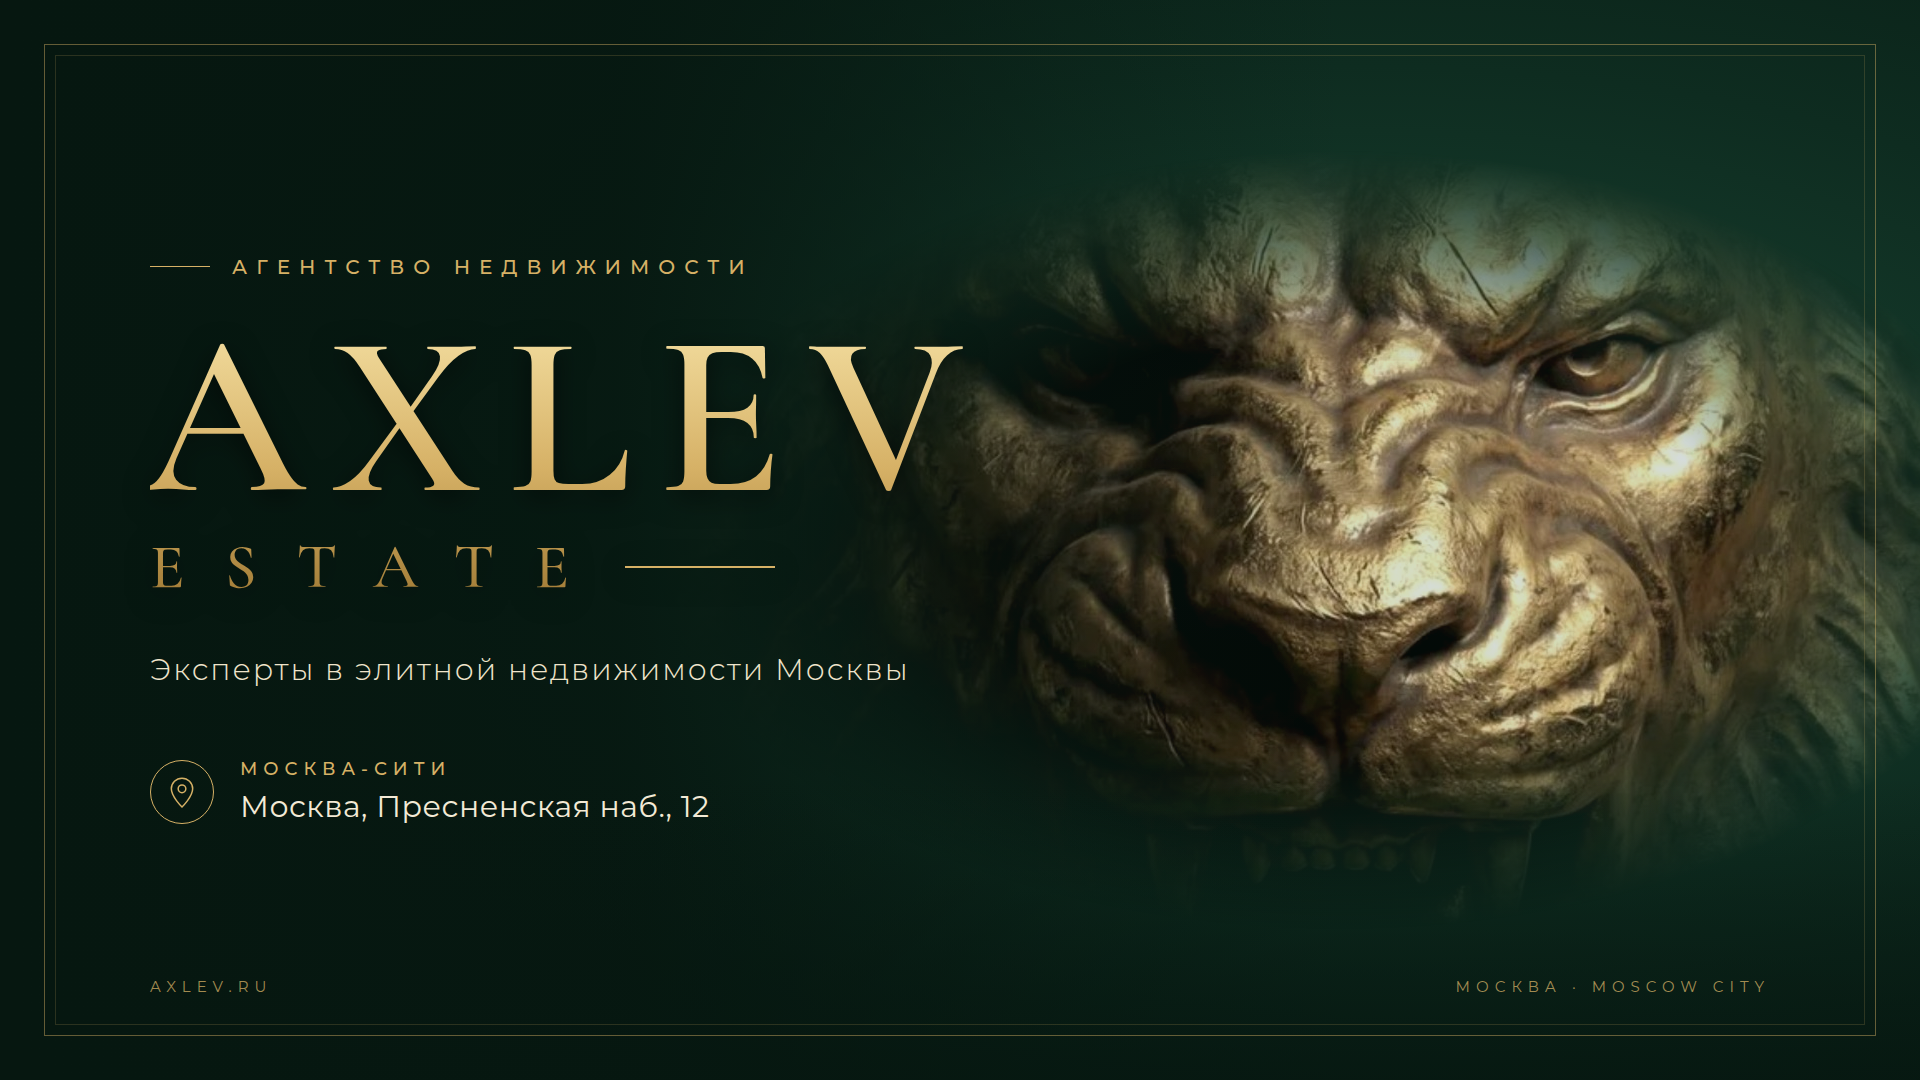
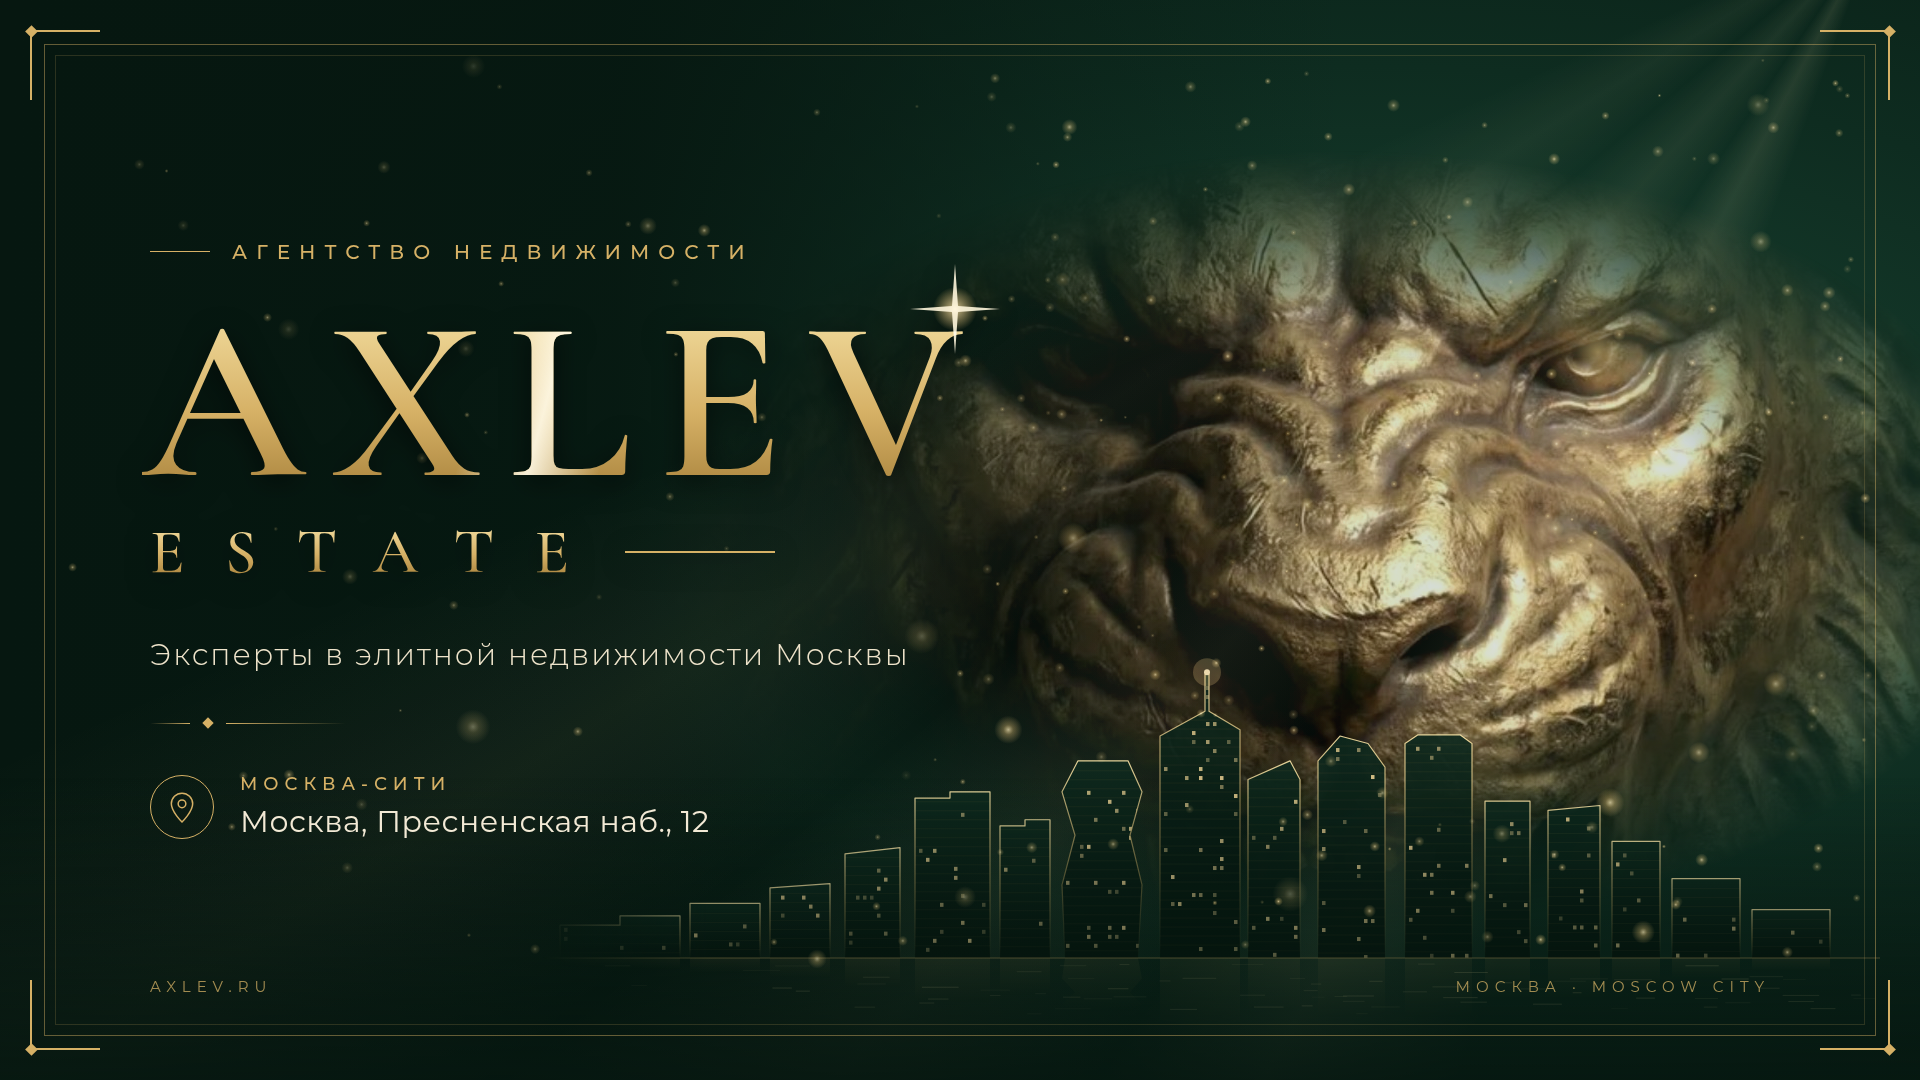
Обложка AXLEV ESTATE: силуэт Москва-Сити, золотая пыль, блик и орнаменты
Золотой контур башен Москва-Сити с огнями в окнах и отражением в реке,
луч света и золотые искры, блик и звезда на логотипе, свечение глаза льва,
угловые орнаменты на рамке и разделитель с ромбом.

Claude-Session: https://claude.ai/code/session_01NcFNBRK8TRY5mcPYiPwMCS

diff --git a/axlev/cover.html b/axlev/cover.html
@@ -40,10 +40,15 @@
     color: var(--gold); display: flex; align-items: center; gap: 22px; margin-bottom: 34px; }
   .eyebrow::before { content: ''; width: 60px; height: 1px; background: var(--gold); }
 
-  .logo { font-family: 'Cormorant Garamond', serif; font-weight: 600; line-height: .9;
-    background: linear-gradient(180deg, var(--gold-light) 0%, var(--gold) 55%, var(--gold-dark) 100%);
-    -webkit-background-clip: text; background-clip: text; color: transparent;
+  .logo { position: relative; font-family: 'Cormorant Garamond', serif; font-weight: 600; line-height: .9;
     filter: drop-shadow(0 6px 14px rgba(0,0,0,.55)); }
+  .logo .main, .logo .sub {
+    background: linear-gradient(180deg, var(--gold-light) 0%, var(--gold) 55%, var(--gold-dark) 100%);
+    -webkit-background-clip: text; background-clip: text; color: transparent; }
+  .logo .main {
+    background: linear-gradient(105deg, rgba(255,250,232,0) 40%, rgba(255,250,232,.9) 48%, rgba(255,250,232,0) 56%),
+                linear-gradient(180deg, var(--gold-light) 0%, var(--gold) 55%, var(--gold-dark) 100%);
+    -webkit-background-clip: text; background-clip: text; width: max-content; }
   .logo .main { display: block; font-size: 230px; letter-spacing: 26px; margin-left: -8px; }
   .logo .sub { display: flex; align-items: center; gap: 28px; font-size: 64px; font-weight: 500;
     letter-spacing: 40px; margin-top: 18px; }
@@ -60,22 +65,59 @@
   .footer { position: absolute; left: 150px; right: 150px; bottom: 84px;
     display: flex; justify-content: space-between; font-size: 15px; letter-spacing: 6px;
     text-transform: uppercase; color: rgba(214,177,102,.75); }
+
+  /* золотой луч света сверху справа и свечение глаза льва */
+  .rays { position: absolute; inset: 0; pointer-events: none; mix-blend-mode: screen;
+    background:
+      radial-gradient(circle at 1598px 352px, rgba(255,214,130,.55) 0, rgba(255,200,110,.18) 22px, rgba(255,200,110,0) 70px),
+      conic-gradient(from 200deg at 1880px -80px, rgba(245,225,164,0) 0deg, rgba(245,225,164,.10) 8deg, rgba(245,225,164,0) 14deg,
+        rgba(245,225,164,.07) 22deg, rgba(245,225,164,0) 30deg, rgba(245,225,164,.05) 38deg, rgba(245,225,164,0) 46deg); }
+
+  /* Москва-Сити: силуэт башен поверх нижней части льва */
+  .skyline { position: absolute; left: 0; top: 0; width: 1920px; height: 1080px; }
+  .particles { position: absolute; inset: 0; mix-blend-mode: screen; }
+
+  /* блик на логотипе */
+  .sparkle { position: absolute; width: 90px; height: 90px; mix-blend-mode: screen; }
+
+  /* угловые орнаменты на рамке */
+  .corner { position: absolute; width: 70px; height: 70px; border: 0 solid var(--gold); }
+  .corner::after { content: ''; position: absolute; width: 9px; height: 9px; background: var(--gold); transform: rotate(45deg); }
+  .c-tl { left: 30px; top: 30px; border-left-width: 2px; border-top-width: 2px; }
+  .c-tr { right: 30px; top: 30px; border-right-width: 2px; border-top-width: 2px; }
+  .c-bl { left: 30px; bottom: 30px; border-left-width: 2px; border-bottom-width: 2px; }
+  .c-br { right: 30px; bottom: 30px; border-right-width: 2px; border-bottom-width: 2px; }
+  .c-tl::after { left: -5.5px; top: -5.5px; } .c-tr::after { right: -5.5px; top: -5.5px; }
+  .c-bl::after { left: -5.5px; bottom: -5.5px; } .c-br::after { right: -5.5px; bottom: -5.5px; }
+
+  /* разделитель с ромбом под слоганом */
+  .divider { display: flex; align-items: center; gap: 14px; margin-top: 46px; }
+  .divider i { width: 120px; height: 1px; background: linear-gradient(90deg, var(--gold), transparent); }
+  .divider i:first-child { background: linear-gradient(90deg, transparent, var(--gold)); width: 40px; }
+  .divider b { width: 8px; height: 8px; background: var(--gold); transform: rotate(45deg); }
+  .address { margin-top: 46px !important; }
 </style>
 </head>
 <body>
 <div class="cover">
   <div class="lion"></div>
   <div class="shade"></div>
+  <div class="rays"></div>
+  <svg class="skyline" id="skyline" viewBox="0 0 1920 1080"></svg>
   <div class="shade-b"></div>
+  <canvas class="particles" id="particles" width="1920" height="1080"></canvas>
   <div class="frame"></div>
+  <div class="corner c-tl"></div><div class="corner c-tr"></div>
+  <div class="corner c-bl"></div><div class="corner c-br"></div>
 
   <div class="content">
     <div class="eyebrow">Агентство недвижимости</div>
     <div class="logo">
-      <span class="main">AXLEV</span>
+      <span class="main">AXLEV</span><svg class="sparkle" style="left:760px;top:-34px" viewBox="0 0 90 90"><defs><radialGradient id="sg"><stop offset="0" stop-color="#fff8e0"/><stop offset=".25" stop-color="#ffe2a0" stop-opacity=".6"/><stop offset="1" stop-color="#ffd27a" stop-opacity="0"/></radialGradient></defs><circle cx="45" cy="45" r="22" fill="url(#sg)"/><path d="M45 0 L48 42 L90 45 L48 48 L45 90 L42 48 L0 45 L42 42 Z" fill="#fff6dc" opacity=".9"/></svg>
       <span class="sub">ESTATE</span>
     </div>
     <div class="tagline">Эксперты в элитной недвижимости Москвы</div>
+    <div class="divider"><i></i><b></b><i></i></div>
 
     <div class="address">
       <div class="pin">
@@ -93,5 +135,89 @@
 
   <div class="footer"><span>axlev.ru</span><span>Москва · Moscow City</span></div>
 </div>
+
+<script>
+// детерминированный генератор, чтобы картинка каждый раз была одинаковой
+let seed = 7; const rnd = () => (seed = (seed * 16807) % 2147483647) / 2147483647;
+const NS = 'http://www.w3.org/2000/svg', sky = document.getElementById('skyline');
+const el = (tag, attrs, parent = sky) => { const e = document.createElementNS(NS, tag);
+  for (const k in attrs) e.setAttribute(k, attrs[k]); parent.appendChild(e); return e; };
+const BASE = 958;
+
+// башни Москва-Сити (упрощённые силуэты), слева направо
+const towers = [
+  [[560,BASE],[560,905],[620,905],[620,890],[680,890],[680,BASE]],
+  [[690,BASE],[690,870],[760,870],[760,BASE]],
+  [[770,BASE],[770,845],[830,838],[830,BASE]],
+  [[845,BASE],[845,790],[900,780],[900,BASE]],                                   // Империя
+  [[915,BASE],[915,700],[950,700],[950,690],[990,690],[990,BASE]],               // Город столиц: Москва
+  [[1000,BASE],[1000,745],[1025,745],[1025,735],[1050,735],[1050,BASE]],         // Санкт-Петербург
+  [[1065,BASE],[1062,840],[1075,760],[1062,690],[1078,640],[1128,640],[1142,690],[1130,760],[1142,840],[1138,BASE]], // Эволюция
+  [[1160,BASE],[1160,600],[1205,560],[1205,500],[1209,500],[1209,560],[1240,590],[1240,BASE]], // Федерация Восток
+  [[1248,BASE],[1248,670],[1290,640],[1300,670],[1300,BASE]],                    // Федерация Запад
+  [[1318,BASE],[1318,640],[1340,600],[1368,612],[1385,650],[1385,BASE]],          // Меркурий
+  [[1405,BASE],[1405,612],[1418,598],[1460,598],[1472,612],[1472,BASE]],          // ОКО
+  [[1485,BASE],[1485,705],[1530,705],[1530,BASE]],                               // ОКО-2
+  [[1548,BASE],[1548,720],[1600,712],[1600,BASE]],                               // Набережная
+  [[1612,BASE],[1612,770],[1660,770],[1660,BASE]],
+  [[1672,BASE],[1672,830],[1740,830],[1740,BASE]],
+  [[1752,BASE],[1752,880],[1830,880],[1830,BASE]],
+];
+
+const defs = el('defs', {});
+const g1 = el('linearGradient', {id:'bld', x1:0, y1:0, x2:0, y2:1}, defs);
+el('stop', {offset:0, 'stop-color':'#0f2a1f'}, g1); el('stop', {offset:1, 'stop-color':'#04120c'}, g1);
+const g2 = el('linearGradient', {id:'edge', x1:0, y1:0, x2:0, y2:1}, defs);
+el('stop', {offset:0, 'stop-color':'#f5e1a4'}, g2); el('stop', {offset:.6, 'stop-color':'#d6b166', 'stop-opacity':.5}, g2);
+el('stop', {offset:1, 'stop-color':'#d6b166', 'stop-opacity':0}, g2);
+const g3 = el('linearGradient', {id:'fadeL', x1:0, y1:0, x2:1, y2:0}, defs);
+el('stop', {offset:0, 'stop-color':'#fff', 'stop-opacity':0}, g3); el('stop', {offset:.12, 'stop-color':'#fff'}, g3);
+el('stop', {offset:1, 'stop-color':'#fff'}, g3);
+const m = el('mask', {id:'fade'}, defs); el('rect', {x:540, y:400, width:1400, height:700, fill:'url(#fadeL)'}, m);
+const g4 = el('linearGradient', {id:'refl', x1:0, y1:0, x2:0, y2:1}, defs);
+el('stop', {offset:0, 'stop-color':'#d6b166', 'stop-opacity':.35}, g4); el('stop', {offset:1, 'stop-color':'#d6b166', 'stop-opacity':0}, g4);
+
+const root = el('g', {mask:'url(#fade)', opacity:.92});
+towers.forEach(t => t.forEach(p => { p[1] = BASE - (BASE - p[1]) * .62; }));
+const pts = t => t.map(p => p.join(',')).join(' ');
+towers.forEach((t, i) => {
+  const xs = t.map(p => p[0]), ys = t.map(p => p[1]);
+  const x0 = Math.min(...xs), x1 = Math.max(...xs), y0 = Math.min(...ys);
+  const clip = el('clipPath', {id:'c'+i}, defs); el('polygon', {points:pts(t)}, clip);
+  el('polygon', {points:pts(t), fill:'url(#bld)'}, root);
+  // этажи и светящиеся окна
+  const w = el('g', {'clip-path':`url(#c${i})`}, root);
+  for (let y = y0 + 10; y < BASE - 4; y += 9) {
+    el('line', {x1:x0, x2:x1, y1:y, y2:y, stroke:'#d6b166', 'stroke-opacity':.07, 'stroke-width':1}, w);
+    for (let x = x0 + 4; x < x1 - 4; x += 7)
+      if (rnd() < .09) el('rect', {x, y:y+2, width:3.5, height:4, fill:'#f5d999', opacity:.35 + rnd() * .6}, w);
+  }
+  el('polygon', {points:pts(t), fill:'none', stroke:'url(#edge)', 'stroke-width':1.2, 'stroke-linejoin':'round'}, root);
+  // отражение в Москве-реке
+  el('polygon', {points:pts(t.map(([x, y]) => [x, BASE + (BASE - y) * .28])), fill:'url(#refl)', opacity:.35}, root);
+});
+// огонёк на шпиле Федерации
+el('circle', {cx:1207, cy:BASE - (BASE - 497) * .62, r:3, fill:'#fff3cf'}, root);
+el('circle', {cx:1207, cy:BASE - (BASE - 497) * .62, r:14, fill:'#ffd98a', opacity:.25}, root);
+// линия набережной и блики на воде
+el('line', {x1:540, x2:1880, y1:BASE, y2:BASE, stroke:'#d6b166', 'stroke-opacity':.7, 'stroke-width':1.2}, root);
+for (let k = 0; k < 70; k++) {
+  const x = 600 + rnd() * 1260, y = BASE + 6 + rnd() * 50;
+  el('line', {x1:x, x2:x + 8 + rnd() * 30, y1:y, y2:y, stroke:'#f5e1a4', 'stroke-opacity':.08 + rnd() * .25}, root);
+}
+
+// золотая пыль
+const ctx = document.getElementById('particles').getContext('2d');
+for (let k = 0; k < 260; k++) {
+  const right = rnd() < .8;
+  const x = right ? 950 + rnd() * 920 : 60 + rnd() * 900, y = 60 + rnd() * 900;
+  const r = rnd() < .9 ? .6 + rnd() * 1.6 : 2.5 + rnd() * 3.5;
+  const a = (right ? .25 : .12) + rnd() * .5;
+  const g = ctx.createRadialGradient(x, y, 0, x, y, r * 3);
+  g.addColorStop(0, `rgba(255,236,180,${a})`); g.addColorStop(.35, `rgba(230,190,110,${a * .5})`);
+  g.addColorStop(1, 'rgba(230,190,110,0)');
+  ctx.fillStyle = g; ctx.beginPath(); ctx.arc(x, y, r * 3, 0, 7); ctx.fill();
+}
+</script>
 </body>
 </html>
